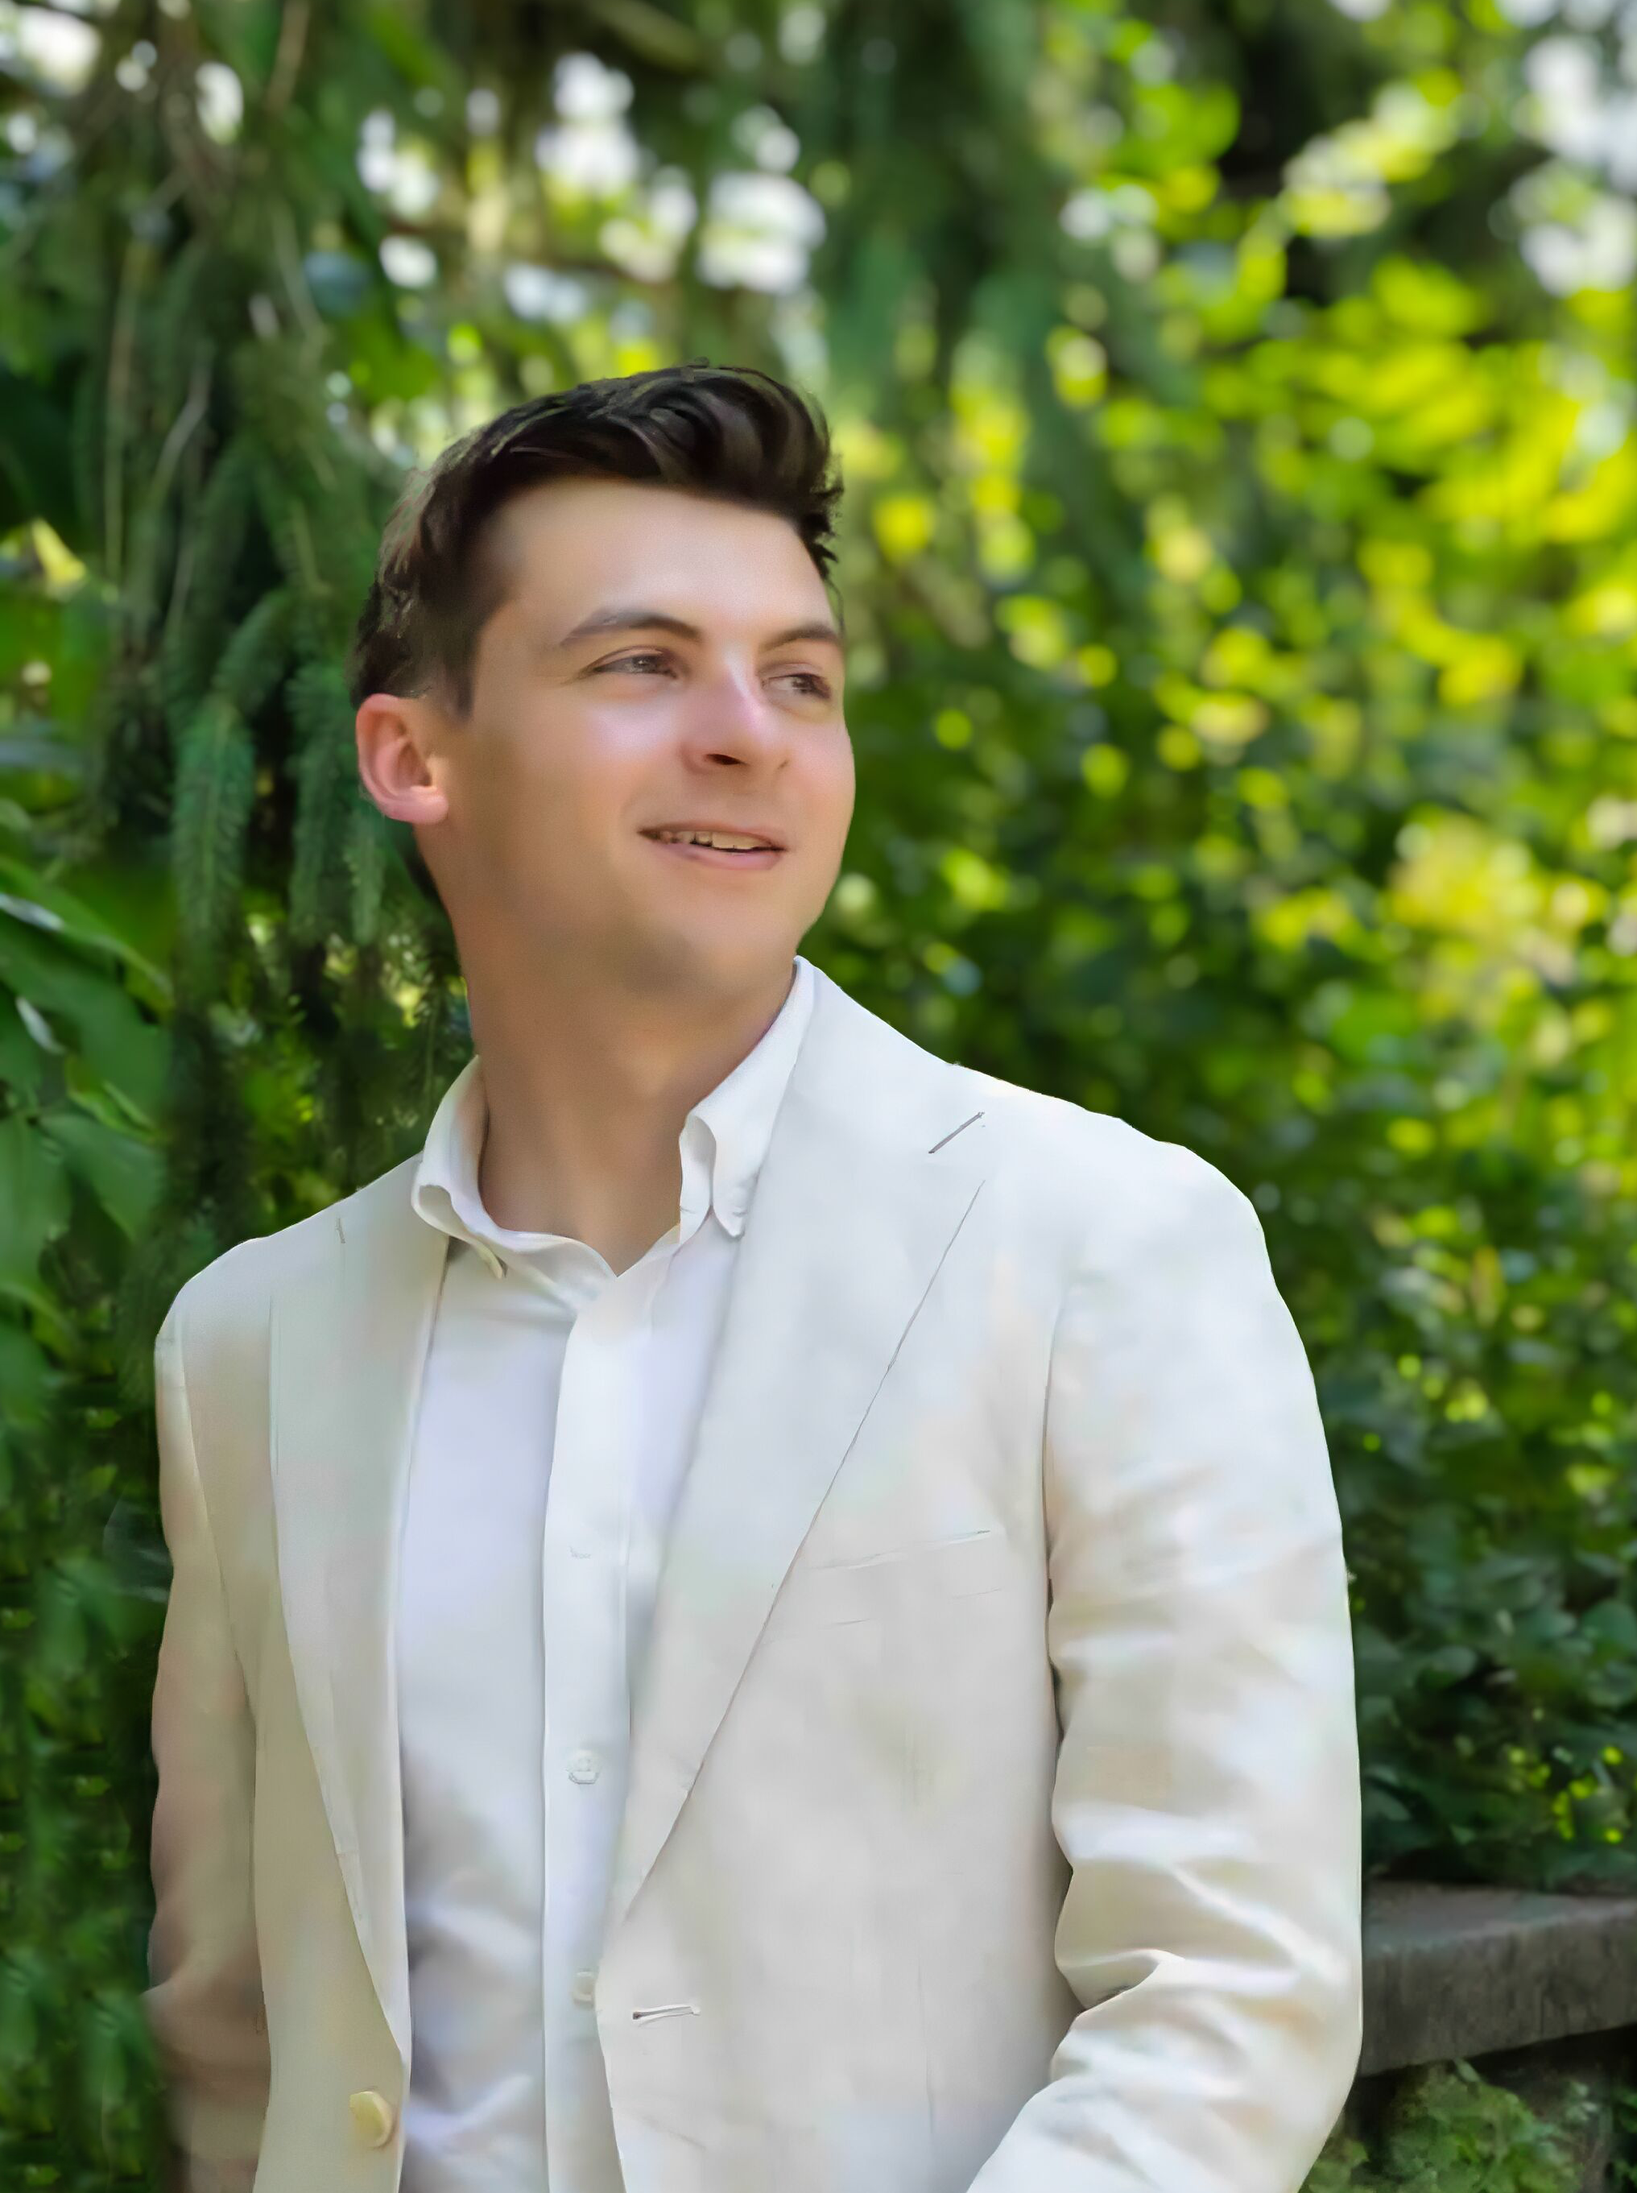
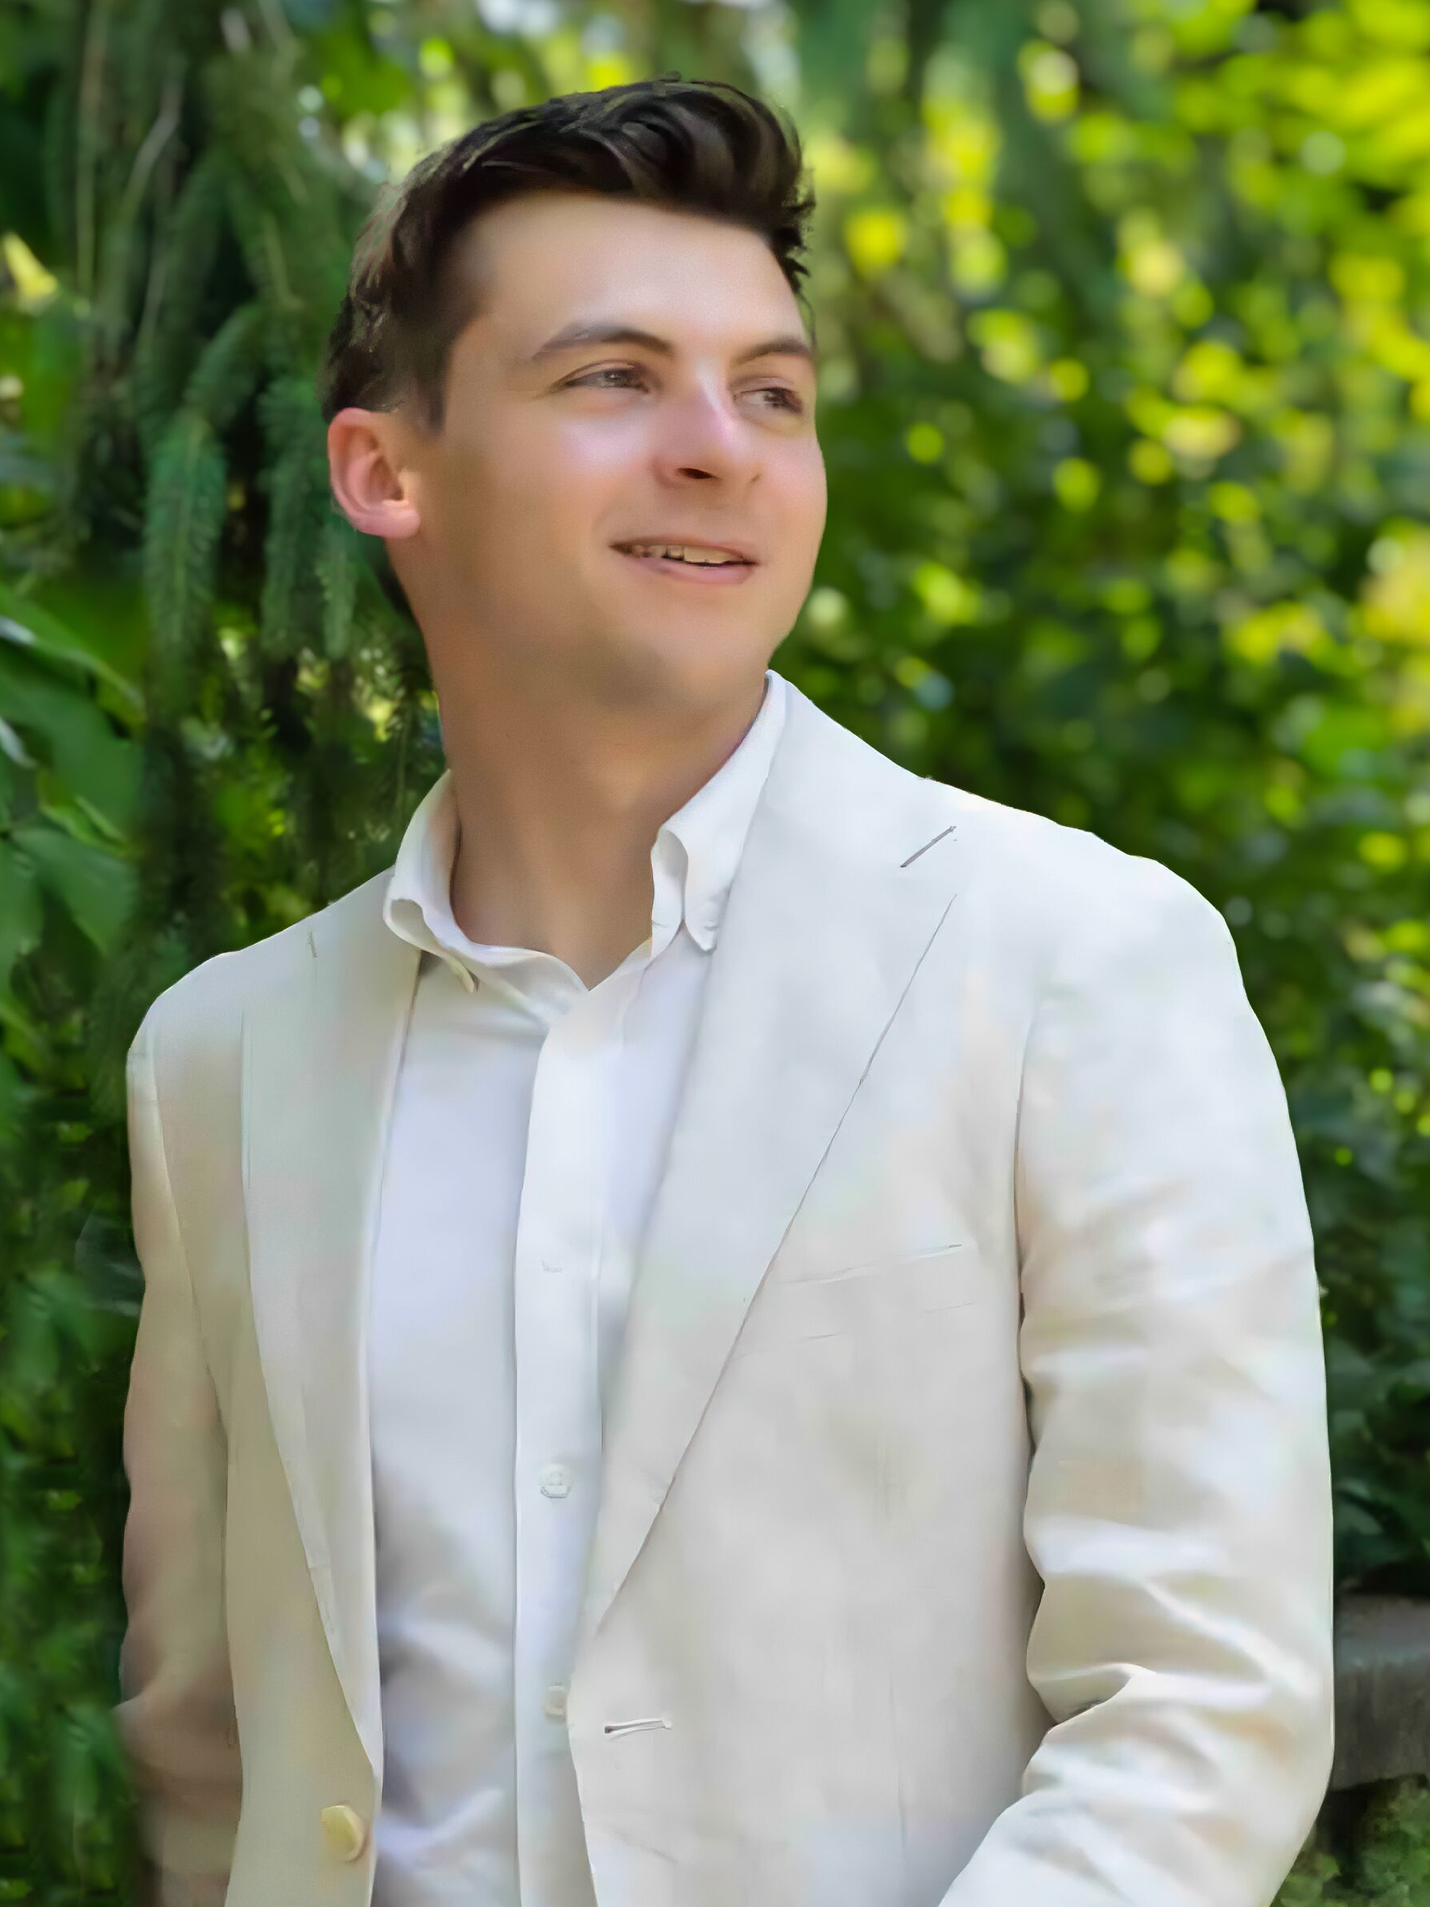
Squooshed hero image for faster loading

diff --git a/index.html b/index.html
@@ -106,7 +106,7 @@
   <div class="grid max-w-screen-xl px-4 py-8 mx-auto lg:gap-8 xl:gap-0 lg:py-16 lg:grid-cols-12">
       <div class="mr-auto place-self-center lg:col-span-7">
           <div class="mb-8 lg:hidden lg:mt-0 lg:col-span-5 lg:flex">
-            <img class="rounded-lg shadow-lg" src="images/hero-image-me-mobile.png" alt="mockup light">
+            <img class="rounded-lg shadow-lg" src="images/hero-image-me-mobile.avif" alt="mockup light">
           </div>  
           <h1 class="max-w-2xl mb-6 text-4xl font-extrabold tracking-tight leading-none text-gray-900 md:text-5xl xl:text-6xl dark:text-white">NJ-Based Product Designer Specializing in Govt Contracts & Startups</h1>
           <p class="max-w-2xl mb-6 font-normal text-gray-500 lg:mb-10 md:text-lg lg:text-xl dark:text-gray-400">Working with clients like the <span class="font-medium text-black dark:text-white">US Dept of Defense</span>, Presidential Candidate <span class="font-medium text-black dark:text-white">Andrew Yang</span>, and plenty of startups.</p>
@@ -138,8 +138,8 @@
           <div class="text-sm text-gray-500">Available for remote projects and on-site roles in NJ and NYC</div>
       </div>
       <div class="hidden lg:mt-0 lg:col-span-5 lg:flex">
-          <img class="rounded-lg shadow-lg dark:hidden hover:shadow-xl transition delay-150 duration-300 ease-in-out" src="images/hero-image-me.png" alt="mockup light">
-          <img class="rounded-lg shadow-lg hover:shadow-xl transition delay-150 duration-300 ease-in-out hidden dark:block" src="images/hero-image-me.png" alt="mockup dark">
+          <img class="rounded-lg shadow-lg dark:hidden hover:shadow-xl transition delay-150 duration-300 ease-in-out" src="images/hero-image-me.avif" alt="mockup light">
+          <img class="rounded-lg shadow-lg hover:shadow-xl transition delay-150 duration-300 ease-in-out hidden dark:block" src="images/hero-image-me.avif" alt="mockup dark">
       </div>                
   </div>
   
